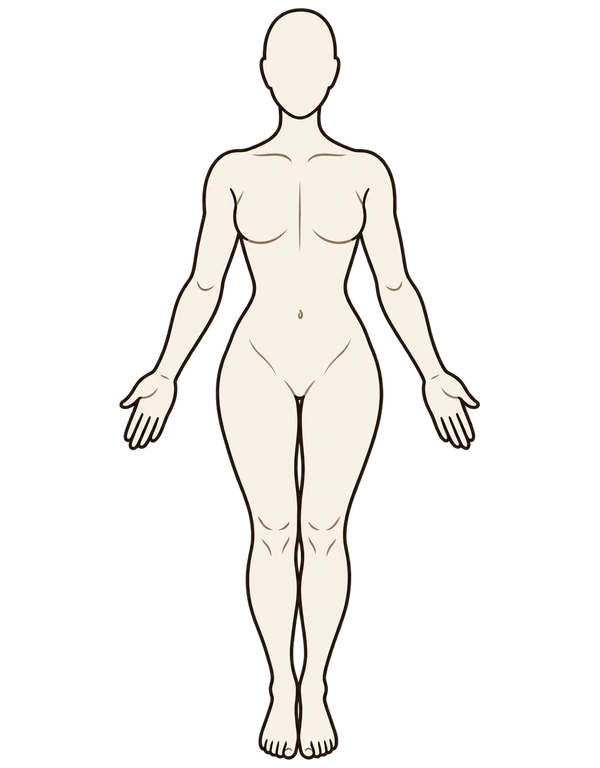
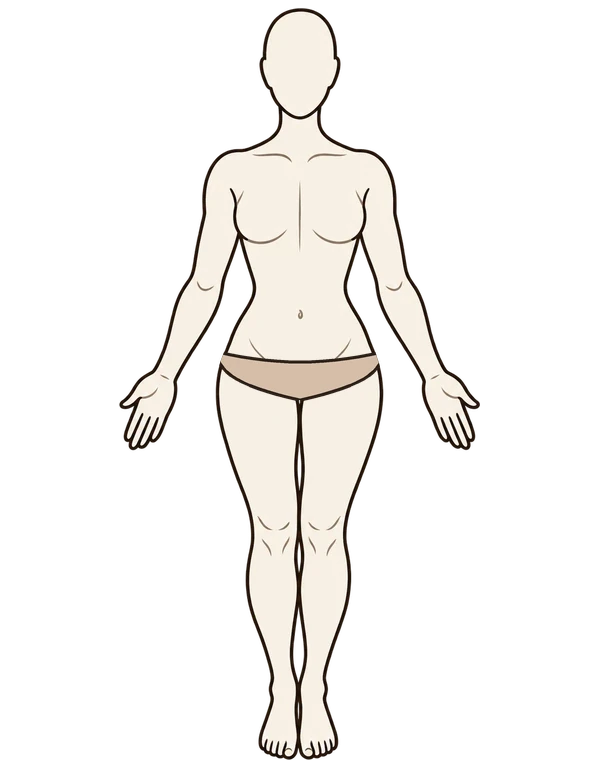
Evolução: biquíni e cueca nos corpos; ponto do quadril fora da região íntima
Claude-Session: https://claude.ai/code/session_01NTHGcaSmZ4AobMdYzAiNGm

Changed region(s): [[0.36, 0.4375, 0.63, 0.5312]]

diff --git a/src/components/EvolucaoVisual.jsx b/src/components/EvolucaoVisual.jsx
@@ -251,7 +251,7 @@ const CORPOS = {
       { campo: 'braco_cm',   nome: 'Braço',   x: 214, y: 255, rot: [112, 262] },
       { campo: 'abdome_cm',  nome: 'Abdome',  x: 268, y: 330, rot: [128, 336], fita: [250, 350] },
       { campo: 'cintura_cm', nome: 'Cintura', x: 300, y: 295, rot: [520, 300], fita: [248, 352] },
-      { campo: 'quadril_cm', nome: 'Quadril', x: 300, y: 385, rot: [535, 352], fita: [218, 382] },
+      { campo: 'quadril_cm', nome: 'Quadril', x: 250, y: 372, rot: [535, 352], fita: [218, 382] },
       { campo: 'coxa_cm',    nome: 'Coxa',    x: 268, y: 470, rot: [175, 480] },
       { campo: 'panturrilha_cm', nome: 'Panturrilha', x: 272, y: 610, rot: [170, 618] },
     ],
@@ -262,7 +262,7 @@ const CORPOS = {
       { campo: 'braco_cm',   nome: 'Braço',   x: 195, y: 245, rot: [105, 252] },
       { campo: 'abdome_cm',  nome: 'Abdome',  x: 270, y: 358, rot: [120, 360], fita: [246, 352] },
       { campo: 'cintura_cm', nome: 'Cintura', x: 300, y: 330, rot: [535, 318], fita: [240, 360] },
-      { campo: 'quadril_cm', nome: 'Quadril', x: 300, y: 405, rot: [545, 362], fita: [224, 376] },
+      { campo: 'quadril_cm', nome: 'Quadril', x: 258, y: 380, rot: [545, 362], fita: [226, 374] },
       { campo: 'coxa_cm',    nome: 'Coxa',    x: 270, y: 480, rot: [185, 490] },
       { campo: 'panturrilha_cm', nome: 'Panturrilha', x: 270, y: 615, rot: [165, 622] },
     ],
